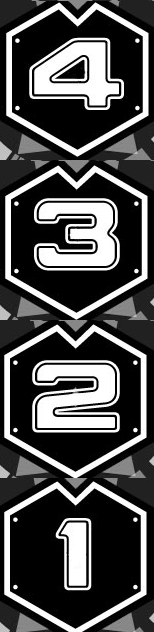
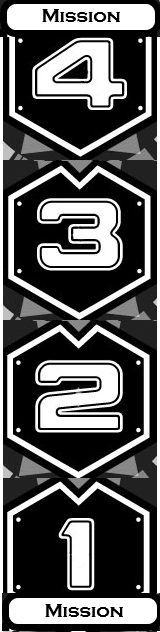
fix: add mission rules and label counters

diff --git a/rules/README.md b/rules/README.md
@@ -1,5 +1,7 @@
 # Rules v0.1
 
+For a quick start and reference see the [**Rules Summary**](https://github.com/Ellotron/war-rig/tree/main/rules/summary)
+
 ## Object
 
 The object of the game is to become the dominant faction. There are 4 ways to do this:
@@ -45,7 +47,7 @@ If the controller wins enough factions loyalty before anyone else wins the game,
 - 2 - 3 players - 1 faction's loyalty required
 - 4 players - 2 faction's loyalty required
 
-## Glossary
+## Definitions
 
 ### Basic Locations
 
@@ -76,13 +78,14 @@ There are various locations for which special rules apply:
 
 ## Setup
 
-Place a supply of coloured resource tokens in each location according to the colours printed in that location. Place all other tokens and the tech deck where every one can reach them.
+Place a supply of coloured resource tokens in each location according to the colours printed in that location. Place all other tokens and the tech deck where every one can reach them. Place the three mission decks and the round and mission counters. Place a token on the round counter at the 1 position and the mission counter at the 4 position.
 
 Decide who will go first, 2nd, 3rd etc and sit by the Home Base with that number. Each player starts with the following:
 
 - 1 empty War Rig chassis in their Home Base
 - 3 faction squad boards in their Home Base each with number token (1-3) to identify it.
 - 1 set of standard issue equipment cards face up in their play area
+- 1 level 1 mission card is dealt to each player
 
 Assign equipment to your squads in any order by placing numbered tokens on the equipment card that match the squad you want to equip.
 Place your remaining 3 faction squad counters (4-6) in a vacant base. These represent the **Lesser Factions**.
@@ -90,6 +93,10 @@ Place your remaining 3 faction squad counters (4-6) in a vacant base. These repr
 ## Order of play
 
 The game is played out in a number of turns. In each turn there are a number of rounds determined by the highest number of squads a player controls. Starting with round 1, each player performs 2 actions with squads they control that have the number 1 token. The next round is the same except each player uses squads with the number 2 token. This repeats until there are no more rounds. If in a round a player does not control a squad with that number token play skips past them until a round where they do control a squad. Play repeats for a number of turns until one of the **End Game** conditions is met.
+
+After each set of 4 turns the players reveal their current mission cards. If a player has completed their mission they collect and apply their rewards. A new mission is then selected at random from the level of the players choosing.
+
+> Note some mission levels are only available if you meet certain prerequisites which are printed on the mission card backs.
 
 ## Basic Actions
 

diff --git a/rules/summary/README.md b/rules/summary/README.md
@@ -8,9 +8,13 @@ Move your squads round the board to collect resources to build your War Rig. Use
 - **War or Peace** - Discover, construct and activate a unique facility in the Planet Core or Deep Space bringing lasting peace or all-consuming war.
 - **Annihilate** - Capture and coerce, or kill all other faction squads using a War Rig.
 
-## Squad Rounds & Actions
+## Rounds, Turns, Actions and Missions
 
-Starting with round 1, each player performs 2 actions with squads they control that have the number 1 token. Each squad can perform two actions per turn. Actions are summarised below. Most of these cost one action (1). Some actions have no cost and optional (free) or happen automatically at no cost (auto). After round 1 advance the round marker to round 2 and repeat.
+Starting with squad round 1, each player performs 2 actions with squads they control that have the number 1 token. Each squad can perform 2 actions per turn. At the end of a squad round move the squad counter to the next number and repeat. At the end of all available squad rounds move the squad counter back to 1 and reduce the mission counter by 1. This represents a full turn.
+
+Mission cards contain optional tasks with associated rewards. Players start the game with a level 1 mission. At the end of the turn where the mission counter was on 1, players receive the rewards for successfully completed missions. All players now take a new mission from a level of their choosing for which they meet the prerequisites printed on the back of the cards.
+
+Actions are summarised below. Most of these cost one action (1). Some actions have no cost and optional (free) or happen automatically at no cost (auto).
 
 > Hint: Squads can be captured if they cannot give up resources or equipment as a trade. Protect your squads by stocking them well.
 
@@ -55,4 +59,4 @@ Each war rig can perform two actions per turn. The actions it can perform depend
 
 ## Full rules
 
-The full explanations for all the rules mentioned above can be found [here](https://github.com/Ellotron/war-rig/tree/main/rules)
+The full explanations for all the rules mentioned above and game setup can be found [here](https://github.com/Ellotron/war-rig/tree/main/rules)
